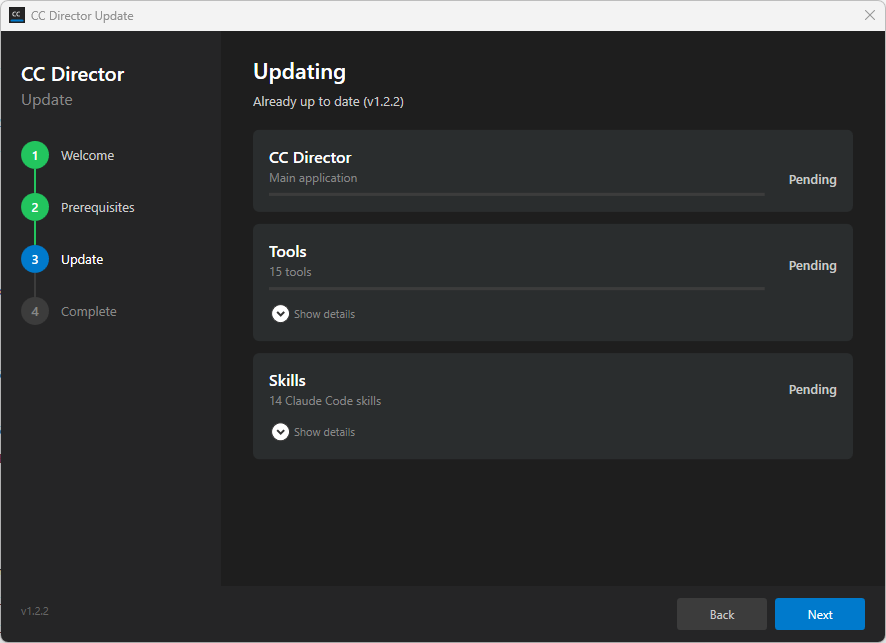
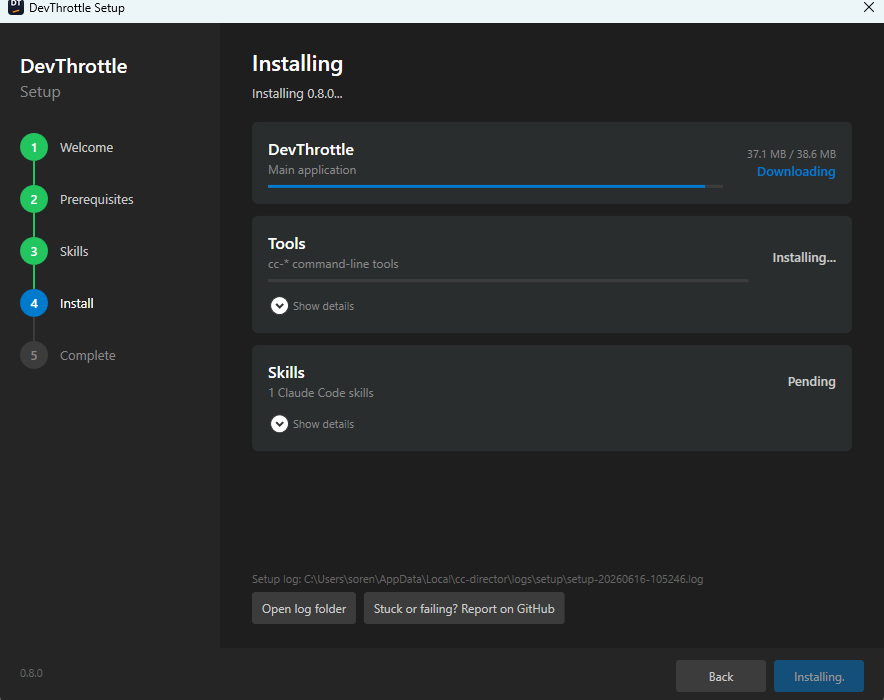
docs(brand): recapture README setup screenshots against the rebranded DevThrottle wizard
setup-1-welcome / setup-2-prerequisites / setup-3-update now show the v0.8.0
DevThrottle wizard (DT icon, "Welcome to DevThrottle", prerequisites all-found,
installing tools/skills) instead of the old CC Director UI. QA report updated.

diff --git a/docs/qa/devthrottle-rebrand/QA_REPORT.html b/docs/qa/devthrottle-rebrand/QA_REPORT.html
@@ -479,8 +479,11 @@
 <ol>
 <li><strong>macOS runtime not verified</strong> - all mac strings/bundle-name/asset renames are done in
         code and the mac release artifact builds, but no Mac was available to run the wizard.</li>
-<li><strong>README screenshots</strong> (<code>images/setup-*.png</code>, <code>cc-director-main.png</code>) still show the old
-        "CC Director" UI - they need re-capturing against the rebranded app.</li>
+<li><strong>README setup screenshots recaptured (DONE)</strong> - <code>images/setup-1-welcome.png</code>,
+        <code>setup-2-prerequisites.png</code>, <code>setup-3-update.png</code> now show the rebranded DevThrottle wizard
+        (DT icon, "Welcome to DevThrottle", prerequisites, installing tools/skills) at v0.8.0. The
+        main-app hero (<code>cc-director-main.png</code>) was left as-is - it shows the Director app, whose
+        window identity intentionally stays "cc-director" (only the icon changed).</li>
 <li><strong>Internal dev docs</strong> (<code>docs/install/INSTALLER_HANDOVER.md</code>, testing/plan docs) still use
         the old setup asset names; they are not linked from the README, so they are outside the
         user-facing install flow.</li>

diff --git a/docs/qa/devthrottle-rebrand/QA_REPORT.md b/docs/qa/devthrottle-rebrand/QA_REPORT.md
@@ -131,8 +131,11 @@ No running `cc-director.exe` process was touched at any point.
 
 1. **macOS runtime not verified** - all mac strings/bundle-name/asset renames are done in
    code and the mac release artifact builds, but no Mac was available to run the wizard.
-2. **README screenshots** (`images/setup-*.png`, `cc-director-main.png`) still show the old
-   "CC Director" UI - they need re-capturing against the rebranded app.
+2. **README setup screenshots recaptured (DONE)** - `images/setup-1-welcome.png`,
+   `setup-2-prerequisites.png`, `setup-3-update.png` now show the rebranded DevThrottle wizard
+   (DT icon, "Welcome to DevThrottle", prerequisites, installing tools/skills) at v0.8.0. The
+   main-app hero (`cc-director-main.png`) was left as-is - it shows the Director app, whose
+   window identity intentionally stays "cc-director" (only the icon changed).
 3. **Internal dev docs** (`docs/install/INSTALLER_HANDOVER.md`, testing/plan docs) still use
    the old setup asset names; they are not linked from the README, so they are outside the
    user-facing install flow.